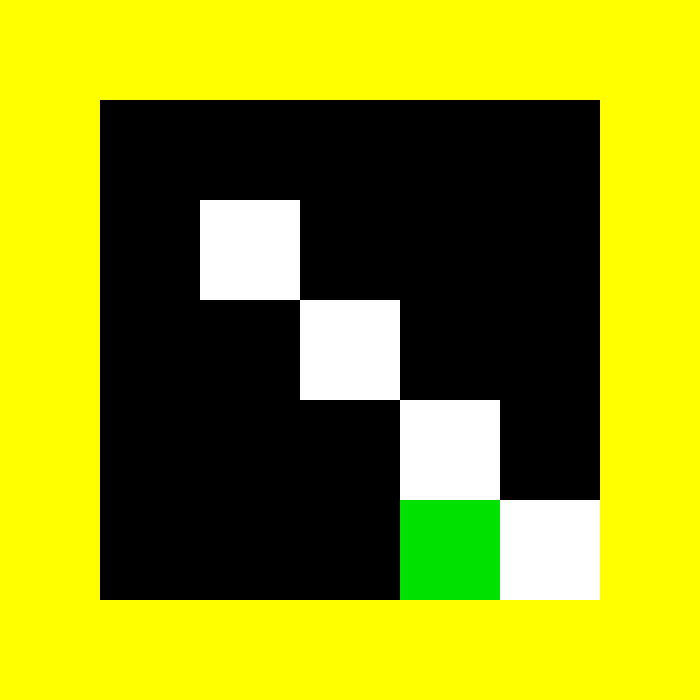
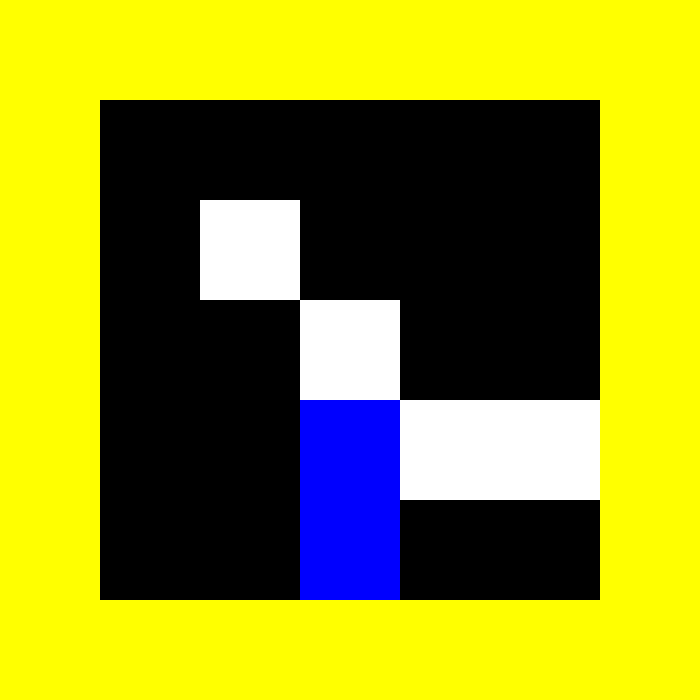
update

Changed region(s): [[0.42, 0.57, 0.87, 0.87]]

diff --git a/color_aruco/aruco_marker_generator.py b/color_aruco/aruco_marker_generator.py
@@ -31,59 +31,59 @@ class GenerateArucoMarker:
             np.ndarray: An image array of the generated ArUco marker.
         """
 
-        base5 = 0
+        base4 = 0
         if self.num == 0:
-            base5 = 0
+            base4 = 0
 
-        if self.num < 95367431640624 and self.num >= 0:
-            base5_digits = []
+        if self.num < 1099511627775 and self.num >= 0:
+            base4_digits = []
             
-            # Convert number to base 5
+            # Convert number to base 4
             while self.num > 0:
-                remainder = self.num % 5
-                base5_digits.append(remainder)  # Store as integer
-                self.num = self.num // 5
+                remainder = self.num % 4
+                base4_digits.append(remainder)  # Store as integer
+                self.num = self.num // 4
             
-            base5_digits.reverse()
+            base4_digits.reverse()
             
             # Pad the list to 20 digits with 0s
-            while len(base5_digits) < 20:
-                base5_digits.insert(0, 0)
+            while len(base4_digits) < 20:
+                base4_digits.insert(0, 0)
 
         else:
-            raise ValueError("Number is too large for base 5 conversion within the allowed range")
+            raise ValueError("Number is too large for base 4 conversion within the allowed range")
         
         # Split the list into 4 lists of 5 elements each
-        split_lists = [base5_digits[i:i+5] for i in range(0, len(base5_digits), 5)]
+        split_lists = [base4_digits[i:i+5] for i in range(0, len(base4_digits), 5)]
 
         # Count the number of even elements in each list
         even_counts = [sum(1 for num1 in sublist if num1 % 2 == 0) for sublist in split_lists]
 
         for i in range(len(even_counts) - 1, -1, -1):
             if even_counts[i] % 2 == 0:
-                base5_digits.insert(i * 5 + 5, 0)
+                base4_digits.insert(i * 5 + 5, 0)
             elif even_counts[i] % 2 == 1:
-                base5_digits.insert(i * 5 + 5, 1)
+                base4_digits.insert(i * 5 + 5, 1)
 
-        base5_digits.insert(0, 0)
+        base4_digits.insert(0, 0)
 
         # Create a 7x7 array with zeros (for a border)
         mini_array = np.full((7, 7), 5, dtype=int)
 
         for row in range(1, 6):  # Rows 1 to 5
             for col in range(1, 6):  # Columns 1 to 5
-                mini_array[row, col] = base5_digits[(row - 1) * 5 + (col - 1)]  # Calculate the index for flat list
+                mini_array[row, col] = base4_digits[(row - 1) * 5 + (col - 1)]  # Calculate the index for flat list
 
         # Create an output image with specified pixel size
         output_image = np.zeros((mini_array.shape[0] * self.pixel_size, mini_array.shape[1] * self.pixel_size, 3), dtype=np.uint8)
 
+        # remember that cv2 uses bgr instead of rgb
         # Assign colors based on the mini_array values
         color_map = {
             0: (0, 0, 0),       # black
             1: (255, 255, 255), # white
-            2: (0, 225, 0),     # green
-            3: (0, 0, 255),     # blue
-            4: (255, 0, 0),     # red
+            2: (255, 0, 0),     # blue
+            3: (0, 0, 255),     # red
             5: (0, 255, 255)    # yellow
         }
 
@@ -91,12 +91,11 @@ class GenerateArucoMarker:
             for c in range(mini_array.shape[1]):
                 color_value = color_map[mini_array[r, c]]
                 output_image[r * self.pixel_size:(r + 1) * self.pixel_size, c * self.pixel_size:(c + 1) * self.pixel_size] = color_value
-        
         return output_image
 
 # Example usage:
 if __name__ == "__main__":
-    marker_id = 2  # Example marker ID
+    marker_id = 2312  # Example marker ID
     pixel_size = 100  # Example pixel size for saving the image
     marker = GenerateArucoMarker(marker_id, pixel_size)
     cv2.imwrite(f'aruco_marker_0.png', marker.create_aruco())

diff --git a/color_aruco/test_aruco_generation.py b/color_aruco/test_aruco_generation.py
@@ -1,6 +1,6 @@
 import unittest
 import numpy as np
-from color_aruco.aruco_marker_generator import GenerateArucoMarker
+from aruco_marker_generator import GenerateArucoMarker
 
 class TestGenerateArucoMarker(unittest.TestCase):
 
@@ -12,7 +12,7 @@ class TestGenerateArucoMarker(unittest.TestCase):
 
     def test_create_aruco_invalid_number(self):
         with self.assertRaises(ValueError):
-            marker = GenerateArucoMarker(num=95367431640625, pixel_size=10)
+            marker = GenerateArucoMarker(num=1099511627775, pixel_size=10)
             marker.create_aruco()
 
     def test_create_aruco_invalid_number(self):
@@ -24,16 +24,23 @@ class TestGenerateArucoMarker(unittest.TestCase):
         marker = GenerateArucoMarker(num=0, pixel_size=1)
         output_image = marker.create_aruco()
 
-        # Check if the borders are white
+        # Check if the borders are yellow
         top_border = output_image[0, :]
         bottom_border = output_image[-1, :]
         left_border = output_image[:, 0]
         right_border = output_image[:, -1]
 
-        self.assertTrue(np.all(top_border == [0, 255, 255]), "Top border is not black.")
-        self.assertTrue(np.all(bottom_border == [0, 255, 255]), "Bottom border is not black.")
-        self.assertTrue(np.all(left_border == [0, 255, 255]), "Left border is not black.")
-        self.assertTrue(np.all(right_border == [0, 255, 255]), "Right border is not black.")
+        self.assertTrue(np.all(top_border == [0, 255, 255]), "Top border is not yellow.")
+        self.assertTrue(np.all(bottom_border == [0, 255, 255]), "Bottom border is not yellow.")
+        self.assertTrue(np.all(left_border == [0, 255, 255]), "Left border is not yellow.")
+        self.assertTrue(np.all(right_border == [0, 255, 255]), "Right border is not yellow.")
+
+    def test_aruco_2312(self):
+        marker = GenerateArucoMarker(num=2312, pixel_size=1)
+        output_image = marker.create_aruco()
+        print(output_image.size)
+        print(list(output_image))
+        # self.assertEqual(output_image, 
 
 # If running this file directly, run the tests
 if __name__ == '__main__':
